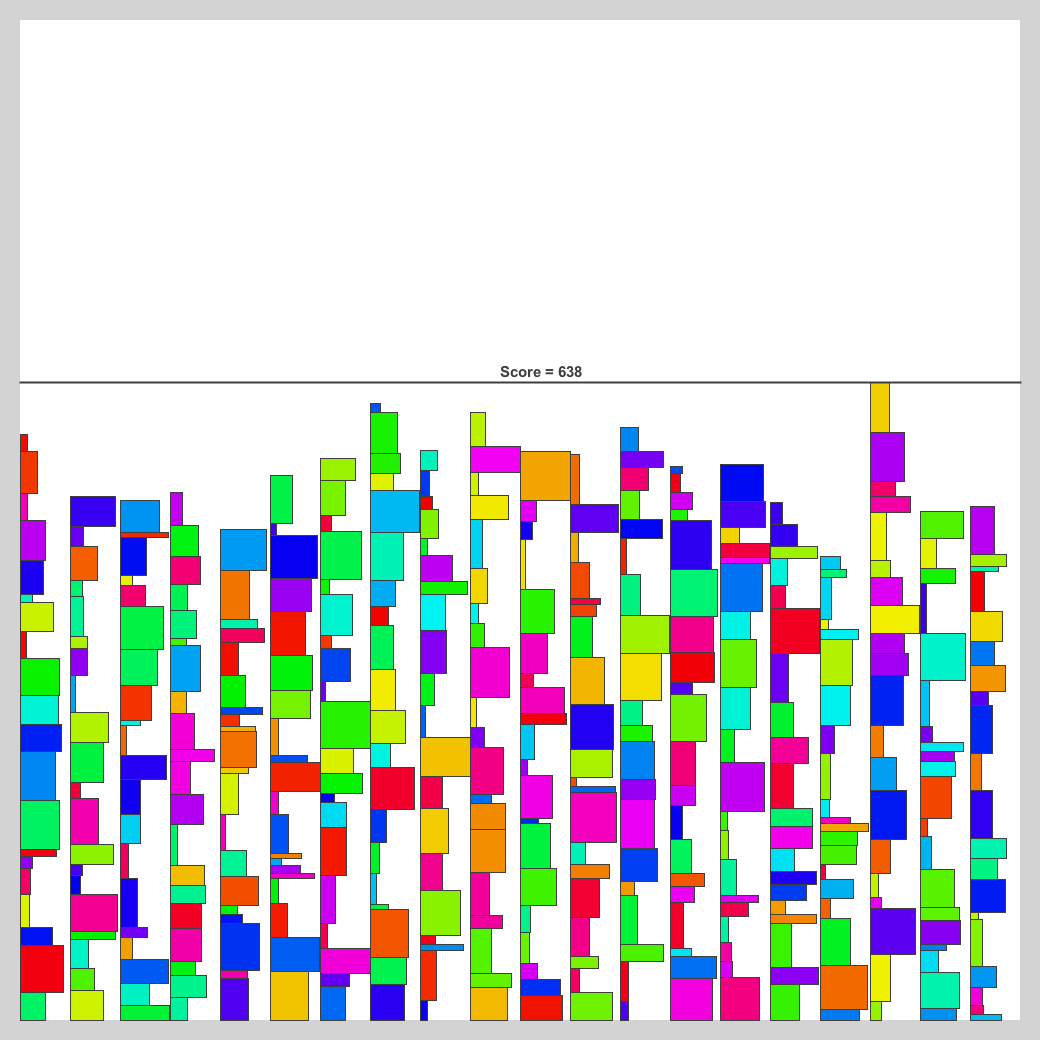
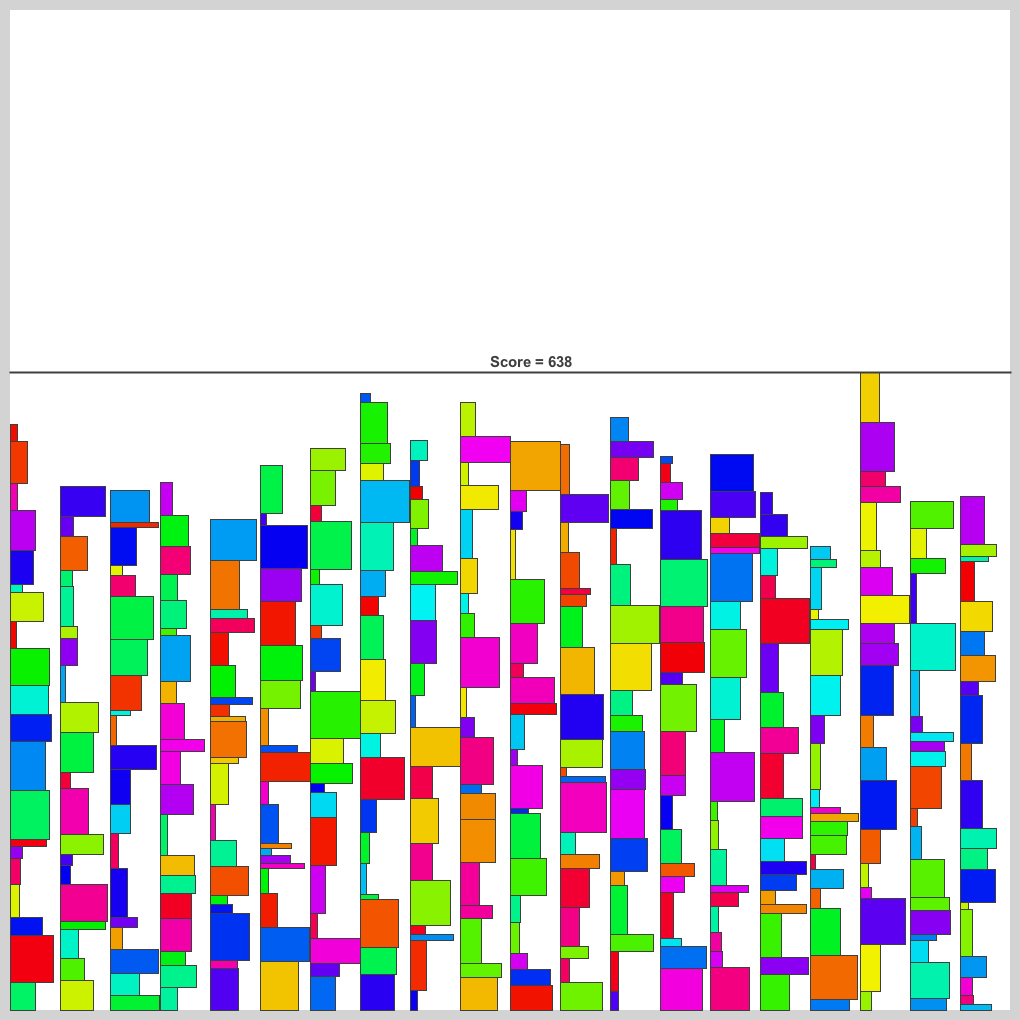
RPPのビジュアライザを修正した．

Changed region(s): [[0.0, 0.0, 1.0, 1.0], [0.4559, 0.4255, 0.5167, 0.4863]]

diff --git a/RectanglePacking/tester/Tester.java b/RectanglePacking/tester/Tester.java
@@ -9,37 +9,37 @@ import javax.imageio.*;
 
 public class Tester {
 
-    public class Visualizer extends JPanel implements WindowListener {
-        
-        public void paint(Graphics g) {
-
+    public class Visualizer extends JPanel implements WindowListener 
+    {    
+        public void paint(Graphics g) 
+        {
             try {
-                int WIDTH  = BOX_SIZE + 40;
-                int HEIGHT = BOX_SIZE + 40;
+                int WIDTH  = BOX_SIZE + 20;
+                int HEIGHT = BOX_SIZE + 20;
                 BufferedImage bi = new BufferedImage(WIDTH, HEIGHT, BufferedImage.TYPE_INT_RGB);
                 Graphics2D g2 = (Graphics2D)bi.getGraphics();
                 g2.setRenderingHint(RenderingHints.KEY_ANTIALIASING, RenderingHints.VALUE_ANTIALIAS_ON);
                 g2.setColor(new Color(0xD3D3D3));
                 g2.fillRect(0, 0, WIDTH, HEIGHT);
                 g2.setColor(new Color(0xFFFFFF));
-                g2.fillRect(20, 20, WIDTH - 40, HEIGHT - 40);
+                g2.fillRect(10, 10, WIDTH - 20, HEIGHT - 20);
 
                 for (int i = 0; i < N; i++) {
                     Color c = Color.getHSBColor((1.0f / (float)N) * (float)i, 1.0f, 0.95f);
                     g2.setColor(c);
-                    g2.fillRect(20 + posX[i], 1020 - posY[i] - h[i], w[i], h[i]);
+                    g2.fillRect(10 + posX[i], 1010 - posY[i] - h[i], w[i], h[i]);
                     g2.setColor(new Color(0x3F3F3F));
-                    g2.drawRect(20 + posX[i], 1020 - posY[i] - h[i], w[i], h[i]);
+                    g2.drawRect(10 + posX[i], 1010 - posY[i] - h[i], w[i], h[i]);
                 }
 
                 g2.setStroke(new BasicStroke(2.0f));
-                g2.drawLine(20, 1020 - MAX_POSY, 1020, 1020 - MAX_POSY);
+                g2.drawLine(10, 1010 - MAX_POSY, 1010, 1010 - MAX_POSY);
 
                 g2.setFont(new Font("Arial", Font.BOLD, 15));
                 FontMetrics fm = g2.getFontMetrics();
                 char[] ch = ("Score = " + MAX_POSY).toCharArray();
                 int x = BOX_SIZE / 2;
-                int y = 1020 - MAX_POSY - 5;
+                int y = 1010 - MAX_POSY - 5;
                 g2.drawChars(ch, 0, ch.length, x, y);
 
                 g.drawImage(bi, 0, 0, WIDTH, HEIGHT, null);
@@ -97,8 +97,8 @@ public class Tester {
 
     /********************************************************************/
 
-    public void generate (String seedStr) {
-
+    public void generate (String seedStr) 
+    {
         try {   
             SecureRandom rnd = SecureRandom.getInstance("SHA1PRNG");
             long seed = Long.parseLong(seedStr);
@@ -117,8 +117,8 @@ public class Tester {
 
     }
 
-    public double runTest (String seed) {
-
+    public double runTest (String seed) 
+    {
         try {
             generate(seed);
             if (proc != null) try {
@@ -155,7 +155,7 @@ public class Tester {
         }
         
         if (vis) {
-            jf.setSize(BOX_SIZE + 40, BOX_SIZE + 40);
+            jf.setSize(BOX_SIZE + 20, BOX_SIZE + 20);
             jf.setVisible(true);
         }
         
